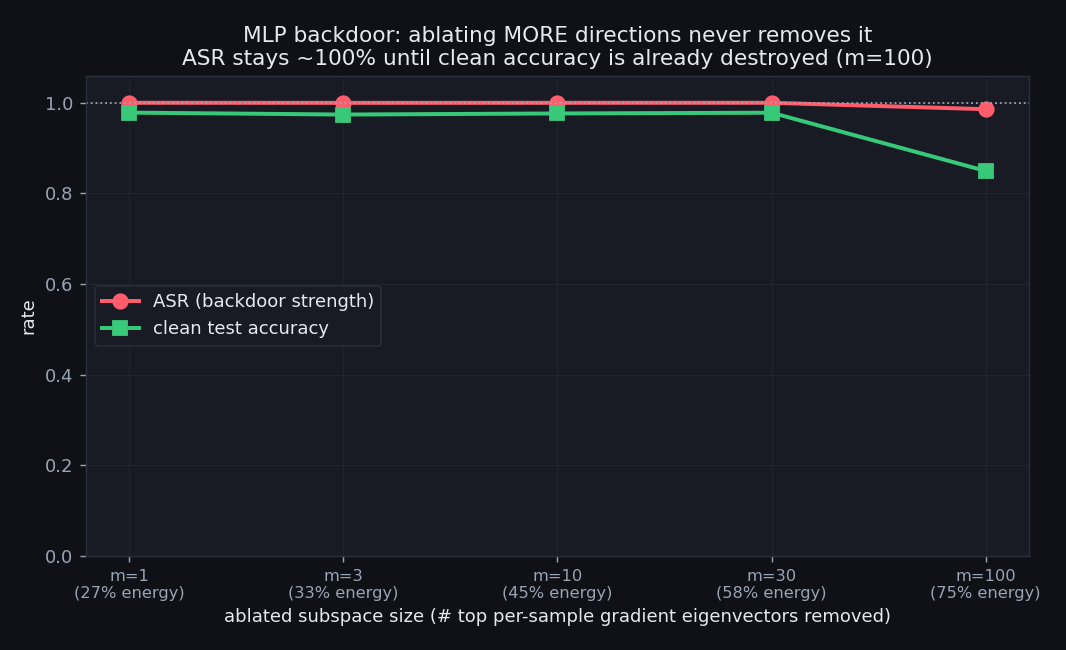
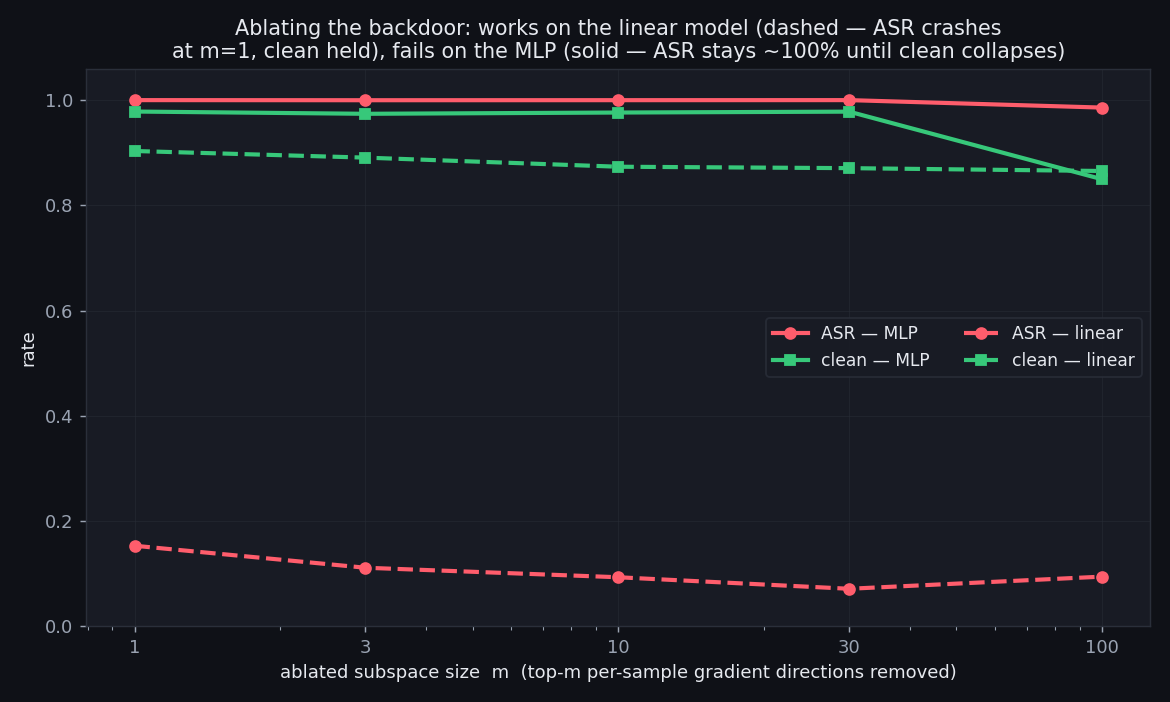
Blog: linear+MLP subspace sweep, CIFAR per-rank over-time, and H7 basis-comparison section
- Linear backdoor subspace sweep added (backdoor_ablation.py --sweep_m): even
  m=1 drops ASR to 15% (clean held ~87%) vs MLP staying ~100%. subspace_sweep.png
  now overlays MLP (solid) and linear (dashed), ASR (red) / clean (green).
- cifar_ranks_overtime.png: test acc over training per effective rank at 0/40/80%
  noise -> clarifies the performance (ceiling ~74%; more noise needs more
  filtering; no single best rank). Added to H1.
- New H7 section: covariance vs correlation vs spectral basis (normalize_test.png,
  with over-time curves) -> raw covariance wins (92.1 vs 86.6/86.0), normalizing
  hurts. Added to hypotheses table.

New: plot_blog_cifar_ranks.py, persample_trigger_dirs_lin + subspace_sweep in
backdoor_ablation.py, results/.../backdoor_ablation/subspace_sweep.json.

diff --git a/research/spectral_filter_blog.html b/research/spectral_filter_blog.html
@@ -157,6 +157,7 @@ We track a <i>broad</i> basis but only project onto the top <code>round(effrank)
 <tr><td>H4 — Per-sample top-k isolates the signal</td><td>sparse parity</td><td><span class="verdict v-no">REFUTED</span></td></tr>
 <tr><td>H5 — Adaptive rank (broaden-then-narrow) helps</td><td>parity / CIFAR</td><td><span class="verdict v-mix">MIXED</span></td></tr>
 <tr><td>H6 — Supervised ablation removes a planted hack</td><td>backdoor (linear / MLP)</td><td><span class="verdict v-mix">linear yes, MLP no</span></td></tr>
+<tr><td>H7 — Normalizing the basis (correlation/spectral) beats raw covariance</td><td>MNIST 50% noise</td><td><span class="verdict v-no">REFUTED (covariance wins)</span></td></tr>
 </tbody>
 </table>
 
@@ -182,14 +183,24 @@ Adam's memorization is most catastrophic. <span class="small">(Note on absolute 
 dataset, not the noise.)</span></p>
 <p>It also holds on a harder conv task, but there it's clearly a <b>capacity dial, not a free win</b>. On
 <b>CIFAR-10</b> (small 591K CNN, whose <i>clean</i> ceiling is only ~74%, so all these numbers are lower),
-Adam still memorizes and collapses while the filter holds — but raising the effective rank (rank and decay
-together) trades robustness for clean-data fit:</p>
+the right rank depends on the noise level. The clearest way to see it is the test-accuracy trajectories at
+each noise level, one curve per effective rank:</p>
+<figure>
+<img src="cifar_ranks_overtime.png" alt="CIFAR test accuracy over training by rank">
+<figcaption>CIFAR-10 test accuracy over training, by effective rank. <b>0%:</b> the least-filtering setting
+(r1200) matches Adam at the ~74% ceiling; the strongest filter (r200) underfits. <b>40%:</b> Adam and the
+weak filter (r1200) peak then collapse as they memorize; the mid filter (r500) holds highest. <b>80%:</b>
+everything collapses except the strongest filter (r200). So the absolute numbers are modest because (a) the
+model's clean ceiling is ~74% and (b) more noise demands more filtering — there's no single best rank.</figcaption>
+</figure>
+<p>The earlier training-dynamics view makes the mechanism explicit — Adam's <i>train</i> accuracy climbs as
+it fits the noise while its test collapses; the filter keeps train low and test flat:</p>
 <figure>
 <img src="blog_h1_curves.png" alt="CIFAR noise training curves">
-<figcaption>CIFAR-10 test accuracy over training at 40% and 80% noise. Adam (red) memorizes (train, dotted,
-climbs) and test collapses from its peak (dot); the filter (green) holds. Absolute values are low because a
-small CNN tops out ~74% even on clean CIFAR-10.</figcaption>
+<figcaption>CIFAR-10 at 40% and 80% noise. Adam (red) memorizes (train, dotted, climbs) and test collapses
+from its peak (dot); the filter (green) holds train low and test flat — it doesn't fit the noise.</figcaption>
 </figure>
+<p>Summarizing the dial as final accuracy:</p>
 <figure>
 <img src="cifar_ranksweep.png" alt="CIFAR effective-rank sweep">
 <figcaption>The capacity dial: higher effective rank fits clean data (0% → matches Adam at 74%) but admits
@@ -268,17 +279,42 @@ success 99.9% → 8–17%; on the <i>MLP</i> it stays ~100%. <b>Right:</b> clean
 either — so the MLP failure isn't a broken model, it's that the backdoor is routed through many redundant
 paths the ablation doesn't touch.</figcaption>
 </figure>
-<p>So on the linear model the backdoor genuinely lives in a single removable weight-space direction; on the
-MLP it's distributed. And <b>ablating a larger subspace doesn't rescue it</b>:</p>
+<p>So on the linear model the backdoor genuinely lives in a (near-)removable weight-space direction; on the
+MLP it's distributed — and <b>ablating a larger subspace doesn't rescue the MLP</b>:</p>
 <figure>
-<img src="subspace_sweep.png" alt="Backdoor subspace sweep on MLP">
-<figcaption>MLP backdoor: attack success stays ~100% as we ablate up to 30 directions, and only dents at
-m=100 — exactly where clean accuracy has already collapsed. The backdoor is distributed, not confined to
-a removable low-dim gradient subspace.</figcaption>
+<img src="subspace_sweep.png" alt="Backdoor subspace sweep: linear vs MLP">
+<figcaption>Ablating the top-<i>m</i> per-sample trigger directions, <b>MLP (solid) vs linear (dashed)</b>;
+ASR (red), clean accuracy (green). On the <i>linear</i> model even m=1 crashes ASR to ~15% (→7–9% with
+more) while clean is held ~87%. On the <i>MLP</i>, ASR stays ~100% all the way to m=30 and only dents at
+m=100 — exactly where clean accuracy finally collapses. The backdoor is a removable direction in the linear
+model and genuinely distributed in the MLP.</figcaption>
 </figure>
 <p class="small">Implication for the emergent-misalignment direction: single/few-direction gradient
 ablation is unlikely to remove a learned behaviour in a nonlinear network — a capability- or
 activation-level intervention is probably needed.</p>
+
+<h3>H7 — Which basis to project onto? covariance vs correlation vs spectral <span class="verdict v-yes">covariance wins</span></h3>
+<p>The raw covariance ranks directions by <i>variance</i>, so it's dominated by high-magnitude weights.
+A natural question: would normalizing that away help — projecting onto the <b>correlation</b> matrix
+(<code>D^{-1/2}CD^{-1/2}</code>, <code>D=diag(C)</code> = per-weight variance) or the <b>spectral /
+normalized-affinity</b> basis (<code>D=</code> row-sums of <code>C</code> = degree, the basis ordinary
+spectral clustering would use)? All three are the same machinery — reweight the eigenbasis by a diagonal,
+re-orthogonalize, project onto the top-k — so it's <b>one categorical knob</b>. Matched test on MNIST @
+50% label noise, 3 seeds, everything else fixed:</p>
+<figure>
+<img src="normalize_test.png" alt="covariance vs correlation vs spectral">
+<figcaption>Left: test accuracy over training. Adam (grey) peaks then collapses; the raw <b>covariance</b>
+filter (blue) holds highest and keeps rising; <b>correlation</b> (green) and <b>spectral</b> (orange) hold
+but ~5–6 points lower. Right: final (solid) vs best (faded). Final test: covariance <b>92.1%</b>,
+correlation 86.6%, spectral 86.0%, Adam 78.8%.</figcaption>
+</figure>
+<p><b>Result: the raw covariance basis wins; normalizing it <i>hurts</i>.</b> All three filtered bases beat
+Adam's collapsed final (so any of these subspaces resists memorization), but removing the per-weight-variance
+weighting costs ~5–6 points. So in the noise-robustness regime the <b>variance magnitude is informative,
+not a nuisance</b>: the high-variance directions are the ones carrying the recurring signal, and putting
+low-variance weights on equal footing (correlation) or degree-normalizing (spectral) lets more noise back
+in. This <b>refutes the "structure over magnitude" intuition</b> here. <span class="small">(Spectral uses a
+signed-covariance degree, so its <code>D^{-1/2}</code> is clamped — treat that row as approximate.)</span></p>
 
 <h2>4. What we learned</h2>
 <p>One mechanism explains the whole spread of results: <b>the filter is a coherence amplifier.</b> It keeps

diff --git a/experiments/backdoor_ablation.py b/experiments/backdoor_ablation.py
@@ -97,14 +97,16 @@ def backdoor_dir_at(W, b, Xtrig, ytrig):
     return g / nrm if nrm > 1e-12 else g
 
 
-def train(Xtr, ytr, ablate_dir=None, online=None, collect=False):
-    """online: dict(Xtrig,ytrig) -> re-estimate & EMA the ablation dir each epoch."""
+def train(Xtr, ytr, ablate_dir=None, online=None, collect=False, ablate_mat=None):
+    """online: dict(Xtrig,ytrig) -> re-estimate & EMA the ablation dir each epoch.
+    ablate_mat: (m,7840) orthonormal rows to project out (subspace ablation)."""
     torch.manual_seed(SEED); np.random.seed(SEED)
     W, b = make_model()
     opt = torch.optim.Adam([W, b], lr=LR)
     ad = None
     if ablate_dir is not None:
         ad = torch.as_tensor(ablate_dir, dtype=torch.float32); ad = ad / ad.norm()
+    M = None if ablate_mat is None else torch.as_tensor(ablate_mat, dtype=torch.float32)
     ema = None
     grads = []; n = len(Xtr); step = 0
     for epoch in range(EPOCHS):
@@ -120,12 +122,27 @@ def train(Xtr, ytr, ablate_dir=None, online=None, collect=False):
             step += 1
             if collect and step > WARMUP_STEPS:
                 grads.append(W.grad.detach().reshape(-1).clone())
+            g = W.grad.detach().reshape(-1)
             if ad is not None:
-                g = W.grad.detach().reshape(-1)
-                g -= (ad @ g) * ad
-                W.grad = g.reshape(10, 784)
+                g = g - (ad @ g) * ad
+            if M is not None:
+                g = g - M.t() @ (M @ g)        # project out all rows of M
+            W.grad = g.reshape(10, 784)
             opt.step()
     return W, b, grads
+
+
+def persample_trigger_dirs_lin(W, b, Xtrig, ytrig, n):
+    """Top-n right singular vectors of the per-sample W-gradient matrix of the
+    triggered images (= top-n eigvecs of their uncentered second moment). Analytic:
+    per-sample grad_W = outer(softmax(logit) - onehot(y), x)."""
+    with torch.no_grad():
+        P = torch.softmax(Xtrig @ W.t() + b, dim=1)          # (B,10)
+        oh = torch.zeros_like(P); oh[torch.arange(len(ytrig)), ytrig] = 1.0
+        G = torch.einsum('bc,bf->bcf', P - oh, Xtrig).reshape(len(ytrig), -1)  # (B,7840)
+        _, S, Vh = torch.linalg.svd(G, full_matrices=False)
+        energy = float((S[:n] ** 2).sum() / (S ** 2).sum())
+    return Vh[:n].contiguous(), energy
 
 
 def main():
@@ -222,5 +239,44 @@ def main():
     print(f"Saved {figpath}")
 
 
+def subspace_sweep(ms):
+    """Linear-model analogue of the MLP subspace sweep: ablate the top-m per-sample
+    trigger directions for m in `ms`, record clean/asr. Saves subspace_sweep.json."""
+    torch.manual_seed(SEED); np.random.seed(SEED)
+    Xtr01, ytr, Xte01, yte = load_raw()
+    rng = np.random.RandomState(SEED)
+    n = len(Xtr01); poison = rng.rand(n) < POISON_FRAC; pm = torch.tensor(poison)
+    Xtr01p = Xtr01.clone(); ytr_p = ytr.clone()
+    Xtr01p[pm] = add_trigger(Xtr01p[pm]); ytr_p[pm] = TARGET
+    Xtr = _norm(Xtr01p)
+    pidx = torch.tensor(np.where(poison)[0][:1024]); Xtrig, ytrig = Xtr[pidx], ytr_p[pidx]
+    print(f"[linear sweep] poison {poison.sum()}/{n} -> target {TARGET}")
+
+    res = {}
+    Wb, bb, _ = train(Xtr, ytr_p)
+    res["baseline"] = {"clean": clean_acc(Wb, bb, _norm(Xte01), yte), "asr": attack_success(Wb, bb, Xte01, yte)}
+    print(f"baseline           clean={res['baseline']['clean']:.4f} asr={res['baseline']['asr']:.4f}")
+    sweep = {}
+    Wi, bi = make_model()
+    for m in ms:
+        dirs, e = persample_trigger_dirs_lin(Wi, bi, Xtrig, ytrig, m)
+        W, b, _ = train(Xtr, ytr_p, ablate_mat=dirs.numpy())
+        ca = clean_acc(W, b, _norm(Xte01), yte); asr = attack_success(W, b, Xte01, yte)
+        sweep[str(m)] = {"clean": round(ca, 4), "asr": round(asr, 4), "subspace_energy": round(e, 4)}
+        print(f"persample m={m:<4d}     clean={ca:.4f} asr={asr:.4f} energy={e:.3f}")
+    res["sweep_m"] = sweep
+    os.makedirs(OUTDIR, exist_ok=True)
+    out = os.path.join(OUTDIR, "subspace_sweep.json")
+    json.dump(res, open(out, "w"), indent=2)
+    print("saved", out)
+
+
 if __name__ == "__main__":
-    main()
+    import argparse
+    ap = argparse.ArgumentParser()
+    ap.add_argument("--sweep_m", type=str, default="", help="comma list, e.g. 1,3,10,30,100")
+    a = ap.parse_args()
+    if a.sweep_m:
+        subspace_sweep([int(x) for x in a.sweep_m.split(",")])
+    else:
+        main()

diff --git a/experiments/plot_subspace_sweep.py b/experiments/plot_subspace_sweep.py
@@ -1,38 +1,38 @@
 #!/usr/bin/env python3
-"""Subspace-size sweep on the MLP backdoor: does ablating MORE directions remove it?"""
+"""Backdoor subspace-size sweep: ablating m per-sample directions.
+MLP (solid) vs linear (dashed); ASR (red) and clean accuracy (green), one axis."""
 import json
 import numpy as np
 import matplotlib
 matplotlib.use("Agg")
 import matplotlib.pyplot as plt
 
-J = json.load(open("/Users/titus/pyg/optimizers/results/weight_covariance_v2/backdoor_mlp/subspace_sweep.json"))
-sw = J["sweep_m"]
-ms = sorted(int(k) for k in sw)
-asr = [sw[str(m)]["asr"] for m in ms]
-clean = [sw[str(m)]["clean"] for m in ms]
-energy = [sw[str(m)]["subspace_energy"] for m in ms]
+MLP = json.load(open("/Users/titus/pyg/optimizers/results/weight_covariance_v2/backdoor_mlp/subspace_sweep.json"))
+LIN = json.load(open("/Users/titus/pyg/optimizers/results/weight_covariance_v2/backdoor_ablation/subspace_sweep.json"))
+
+def series(J):
+    sw = J["sweep_m"]; ms = sorted(int(k) for k in sw)
+    return ms, [sw[str(m)]["asr"] for m in ms], [sw[str(m)]["clean"] for m in ms]
 
 BG="#0f1117"; PANEL="#181b24"; INK="#e6e9ef"; MUT="#9aa3b2"; GRID="#2a2f3a"
-RED="#ff5d6c"; GREEN="#37c87a"; BLUE="#4aa3ff"
+RED="#ff5d6c"; GREEN="#37c87a"
 plt.rcParams.update({"text.color":INK,"axes.labelcolor":INK,"xtick.color":MUT,
                      "ytick.color":MUT,"axes.edgecolor":GRID,"font.size":10})
+fig, ax = plt.subplots(figsize=(9,5.4), facecolor=BG); ax.set_facecolor(PANEL)
 
-fig, ax = plt.subplots(figsize=(8.2, 5.0), facecolor=BG)
-ax.set_facecolor(PANEL)
-x = np.arange(len(ms))
-ax.plot(x, asr, "o-", color=RED, lw=2.2, ms=8, label="ASR (backdoor strength)")
-ax.plot(x, clean, "s-", color=GREEN, lw=2.2, ms=8, label="clean test accuracy")
-ax.axhline(J["baseline"]["asr"], color=MUT, ls=":", lw=1)
-ax.set_xticks(x); ax.set_xticklabels([f"m={m}\n({e:.0%} energy)" for m, e in zip(ms, energy)], fontsize=9)
-ax.set_ylim(0.0, 1.06); ax.set_ylabel("rate")
-ax.set_xlabel("ablated subspace size (# top per-sample gradient eigenvectors removed)")
-ax.set_title("MLP backdoor: ablating MORE directions never removes it\n"
-             "ASR stays ~100% until clean accuracy is already destroyed (m=100)",
-             color=INK, fontsize=12)
-ax.legend(facecolor=PANEL, edgecolor=GRID, fontsize=10, labelcolor=INK, loc="center left")
+for J, ls, modtag in [(MLP, "-", "MLP"), (LIN, "--", "linear")]:
+    ms, asr, clean = series(J)
+    ax.plot(ms, asr, ls, color=RED, lw=2.3, marker="o", ms=6, label=f"ASR — {modtag}")
+    ax.plot(ms, clean, ls, color=GREEN, lw=2.3, marker="s", ms=6, label=f"clean — {modtag}")
+
+ax.set_xscale("log"); ax.set_xticks([1,3,10,30,100]); ax.set_xticklabels([1,3,10,30,100])
+ax.set_ylim(0,1.06); ax.set_xlabel("ablated subspace size  m  (top-m per-sample gradient directions removed)")
+ax.set_ylabel("rate")
+ax.set_title("Ablating the backdoor: works on the linear model (dashed — ASR crashes\n"
+             "at m=1, clean held), fails on the MLP (solid — ASR stays ~100% until clean collapses)",
+             color=INK, fontsize=11.5)
+ax.legend(facecolor=PANEL, edgecolor=GRID, fontsize=9.5, labelcolor=INK, loc="center right", ncol=2)
 ax.grid(True, color=GRID, lw=0.5, alpha=0.5)
 fig.tight_layout()
-out = "/Users/titus/pyg/optimizers/research/subspace_sweep.png"
-fig.savefig(out, dpi=130, facecolor=BG)
-print("saved", out)
+out="/Users/titus/pyg/optimizers/research/subspace_sweep.png"
+fig.savefig(out, dpi=130, facecolor=BG); print("saved", out)

diff --git a/experiments/plot_blog_cifar_ranks.py b/experiments/plot_blog_cifar_ranks.py
@@ -1,0 +1,40 @@
+#!/usr/bin/env python3
+"""CIFAR-10 test accuracy over training, by effective rank, at each noise level."""
+import json, os
+import matplotlib
+matplotlib.use("Agg")
+import matplotlib.pyplot as plt
+
+D = "/Users/titus/pyg/optimizers/results/cifar_noise/ranksweep"
+def m(name):
+    p = os.path.join(D, name)
+    return json.load(open(p))["metrics"] if os.path.exists(p) else None
+def xy(rec): return [r["epoch"] for r in rec], [r["test_acc"] for r in rec]
+
+BG="#0f1117"; PANEL="#181b24"; INK="#e6e9ef"; MUT="#9aa3b2"; GRID="#2a2f3a"
+COLS={"adam":MUT,"r200":"#ff5d6c","r500":"#ffb454","r1200":"#37c87a"}
+plt.rcParams.update({"text.color":INK,"axes.labelcolor":INK,"xtick.color":MUT,
+                     "ytick.color":MUT,"axes.edgecolor":GRID,"font.size":10})
+fig = plt.figure(figsize=(14,4.6), facecolor=BG)
+gs = fig.add_gridspec(1,3,wspace=0.16,left=0.05,right=0.99,top=0.83,bottom=0.14)
+
+NOISE=[("0%","n0"),("40%","n40"),("80%","n80")]
+series=[("adam","adam_{t}.json","Adam (no filter)"),
+        ("r200","ours_d99_r200_{t}.json","filter r200/d.99 (most filtering)"),
+        ("r500","ours_d997_r500_{t}.json","filter r500/d.997"),
+        ("r1200","ours_d999_r1200_{t}.json","filter r1200/d.999 (least)")]
+for col,(lab,tag) in enumerate(NOISE):
+    ax=fig.add_subplot(gs[0,col]); ax.set_facecolor(PANEL)
+    for key,pat,leg in series:
+        rec=m(pat.format(t=tag))
+        if rec is None: continue
+        e,te=xy(rec); ax.plot(e,te,color=COLS[key],lw=2.0,label=leg)
+    ax.set_ylim(0,0.8); ax.set_xlabel("epoch")
+    if col==0: ax.set_ylabel("test accuracy (clean test set)")
+    ax.set_title(f"{lab} label noise", color=INK, fontsize=12)
+    ax.grid(True,color=GRID,lw=0.5,alpha=0.5)
+    if col==0: ax.legend(facecolor=PANEL,edgecolor=GRID,fontsize=8,labelcolor=INK,loc="lower right")
+fig.suptitle("CIFAR-10 test accuracy over training, by effective rank — small CNN, clean-task ceiling ~74%",
+             color=INK, fontsize=12.5, y=0.96)
+out="/Users/titus/pyg/optimizers/research/cifar_ranks_overtime.png"
+fig.savefig(out,dpi=130,facecolor=BG); print("saved",out)
